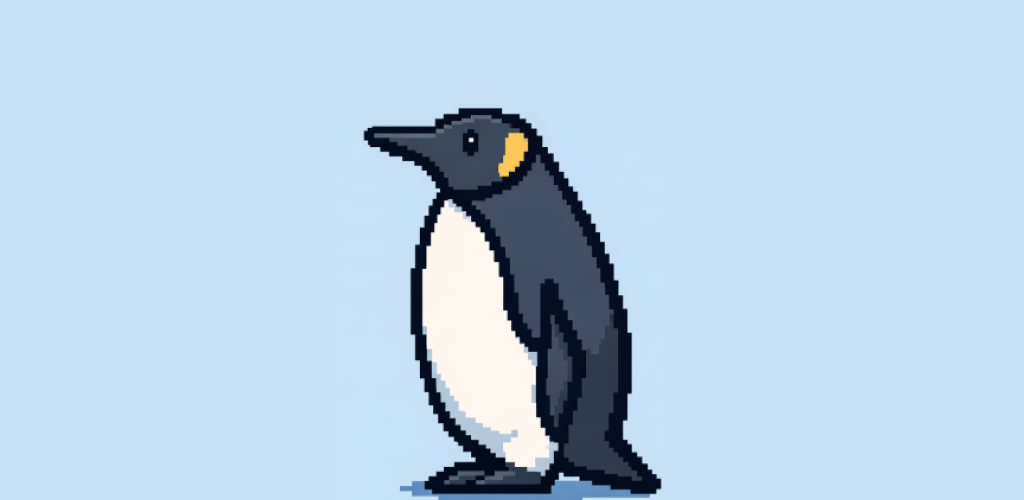
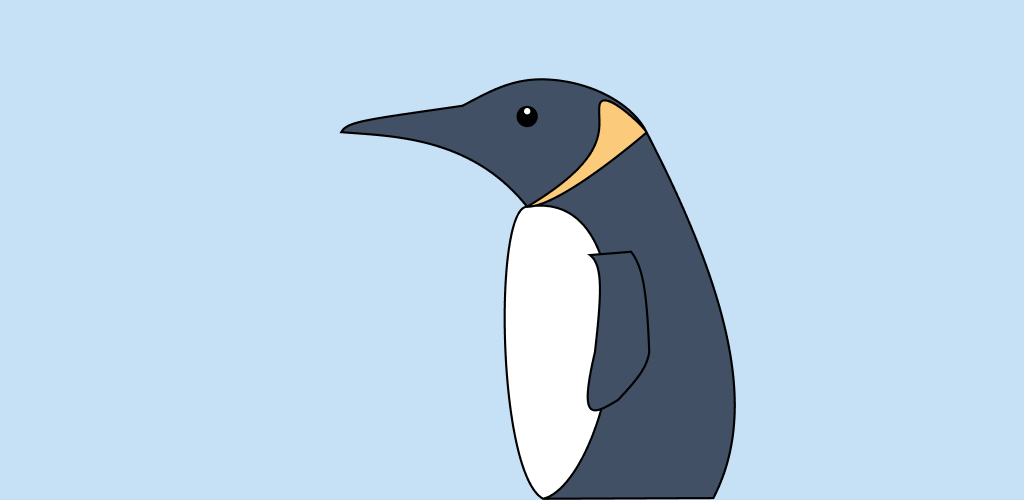
updated the images and text

Changed region(s): [[0.3125, 0.15, 0.7188, 1.0]]

diff --git a/README.md b/README.md
@@ -8,10 +8,10 @@ A task management app with all necessary features.
 
 ## Features
 
-- **Repeating Tasks** — Create tasks that repeat daily, weekly, or monthly.
+- **Repeating Tasks** — Create tasks that repeat daily, weekly or with custom interval.
 - **Nested Subtasks** — Organize work with deeply nested subtasks, no depth limit.
 - **Search** — Quickly find any task with built-in search.
-- **Backup** — Automatic and manual backups; export your data as a JSON file.
+- **Backup** — Automatic and manual backups, export your data as a JSON file.
 
 [<img alt="Get it on play" src="app/src/main/res/drawable/playstore_1_.png" width="180px">](https://play.google.com/store/apps/details?id=com.Ace777.tidy)
 [<img alt="Get it on fdroid" src="app/src/main/res/drawable/fdroid.png" width="180px">](https://f-droid.org/packages/com.Ace777.tidy)
